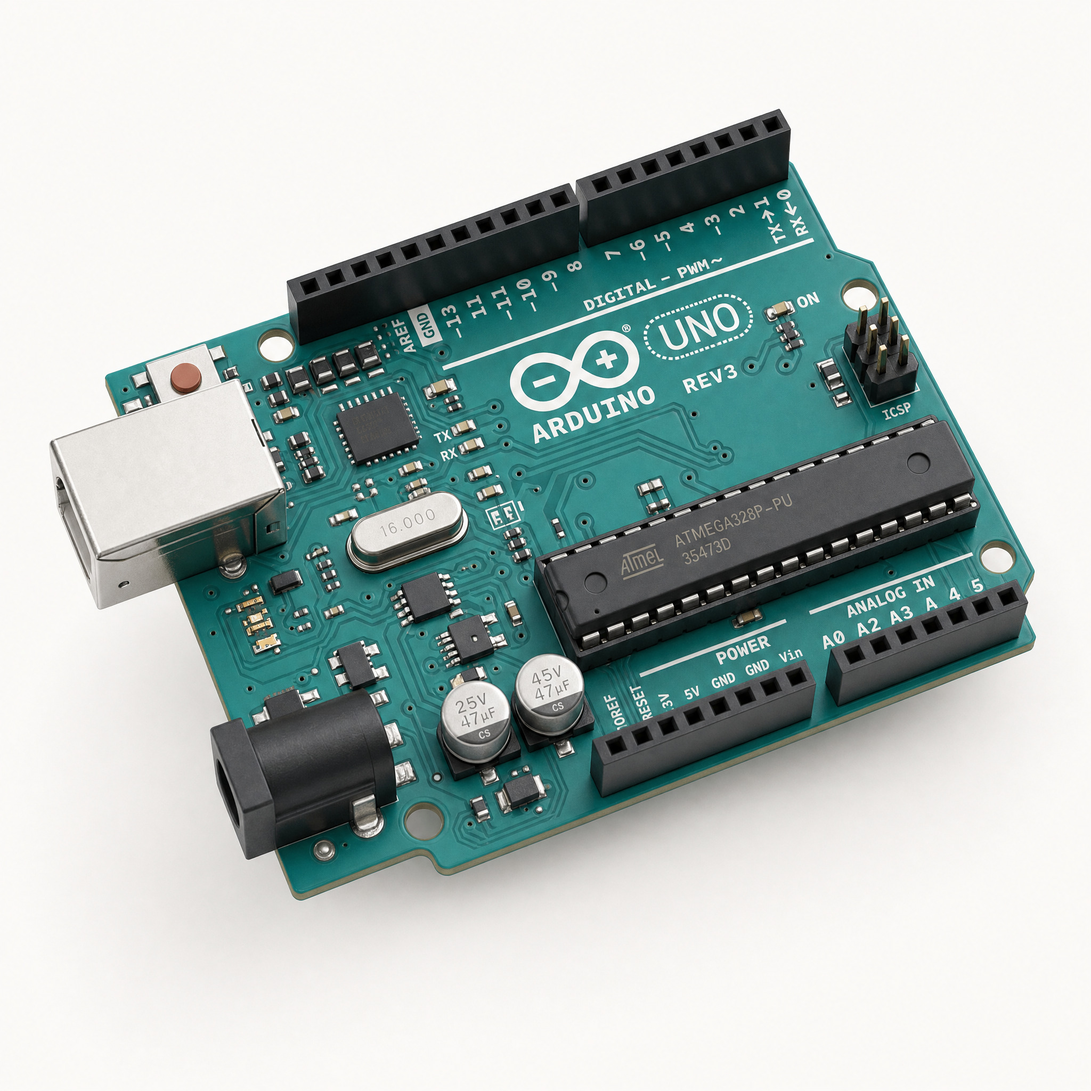
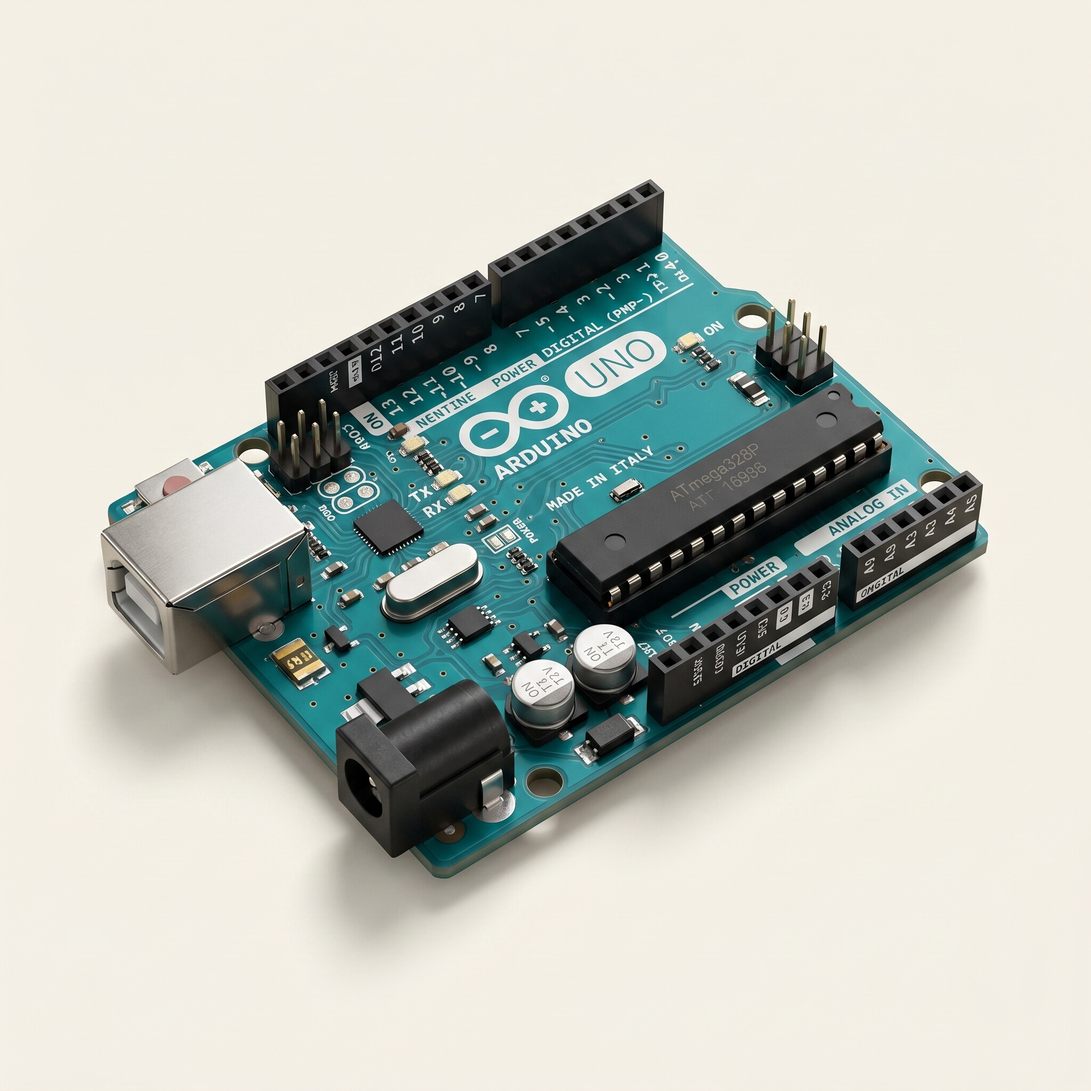
feat(images): regenerate 12 visuals via Higgsfield Nano Banana 2
User A/B-test 2026-05-05 över alla 18 deck-bilder visade att NB2 vinner
17/18 jämfört med OpenAI gpt-image-2 (vunna kategorier: cartoon, triangel,
fotocell-states, schema, photoreal hero-shots, Fritzings).

Bilder bytta till NB2-genererade versioner:
- ohms-law (cartoon — bevarad metafor men crisper render)
- ohms-triangle (renare line-art med R · I dot)
- photoresistors-three (3 fotoceller i olika ljus + resistansvärden)
- breadboard-internals (5-håls-strips, identiska top/bottom)
- pwm-waveform (oscilloscope-grid + 3 duty cycles)
- voltage-divider (riktig fotocell-symbol + photo 1 kΩ + +5V↑ + skala)
- rgb-color-mixing (Venn-diagram med soft glow)
- cover-arduino-hero (cinematic 16:9)
- arduino-uno-hero (clean product render)
- active-buzzer-sticker (med "REMOVE SEAL"-sticker)
- resistor-220ohm (4-band röd-röd-brun-guld)

Fritzings (LED, RGB, button, buzzer, photocell, tilt) bevarade som
originals — användarens egna TinkerCAD-renders med exakt wiring.

Slide 11 inline max-height för nya breadboard-bilden.
CLAUDE.md AI-bildgenerering-sektionen uppdaterad: NB2 är nu default.

diff --git a/CLAUDE.md b/CLAUDE.md
@@ -54,7 +54,7 @@ npm run export-notes                                           # presenter-notes
 
 | Konstanter | Var | Varför |
 |-----------|-----|--------|
-| `#d4a574` `#ff2222` `#8b4513` `#d4af37` | slide 10 (resistor-band) | Fysiska komponentfärger studenten ska identifiera |
+| `#d4a574` `#ff2222` `#8b4513` `#d4af37` | slide 10 (resistor-band) + AI-prompt för `resistor-220ohm.png` | Fysiska komponentfärger studenten ska identifiera. AI-rendrade resistorer MÅSTE följa 4-band 220 Ω: röd-röd-brun + (gap) + guld |
 | `#ff1744` `#00e676` `#2979ff` | slides 19, 26 (RGB-LED-cirklar) | Faktiska LED-färger |
 | `#b400dc` `#ff8cb4` `#ffd400` `#00e0ff` | slide 25 (RGB-färgexempel) | Övningens målfärger |
 | `#ffd400` (sun) | AI-prompt för `voltage-divider.png` | Sol-symbol — pedagogisk metafor (vid regeneration: behåll i prompt) |
@@ -109,6 +109,59 @@ npm run export-notes                                           # presenter-notes
 
 ---
 
+## AI-bildgenerering — modellval och workflow
+
+Empiriskt verifierat 2026-05-05 över ~30 bildgenerationer + användar-jämförelse på alla 18 deck-bilder:
+
+### Default: **Higgsfield `nano_banana_2`** för i princip allt
+
+Användar-A/B-test 2026-05-05: NB2 vann över gpt-image-2 på **17/18 bilder** (cartoonen, triangeln, fotocell-states, breadboard, PWM, voltage-divider, RGB-mixing, cover, Arduino-hero, buzzer-sticker, fotocell-macro, resistor-220Ω, alla Fritzings). Hero-shots och pedagogiska illustrationer är NB2 jämbördigt eller bättre. På Fritzing-style med tät text-labels är NB2 markant bättre.
+
+### Modellval per bildtyp
+
+| Bildtyp | Modell | Endpoint / verktyg | Anteckning |
+|---------|--------|---------------------|--------|
+| **DEFAULT — allt** | **Higgsfield `nano_banana_2`** | `higgsfield generate create nano_banana_2 --image <ref> --prompt "..." --wait` | Bra på cartoon, illustrationer, schema, fotorealism, AND Fritzing-labels |
+| Photo-fidelity-kritiska (exakt wiring i TinkerCAD-foton, Fritzings med specifika pin-anslutningar) | **Restore original** | n/a | Båda modeller hallucinerar pin-positioner. Originalets fidelity är pedagogiskt nödvändig |
+| Fallback om NB2 fail eller specifik sak inte funkar | OpenAI `gpt-image-2` | `/v1/images/edits` | Hade tidigare default-rollen, fungerar men är sämre på text-labels och småskaligt detalj |
+
+### Workflow för regen
+
+1. **Pre-flight:** Kontrollera `higgsfield account status` (CLI authed). Concurrent-jobs-limit på starter-plan = **4**, max 4 parallella i taget.
+2. **Originals först:** Backup till `tasks/image-gen/originals/` FÖRE delete-commit (omvänd ordning är data-loss-risk)
+3. **Prompt-fil per bild:** Spara i `tasks/image-gen/v[N]/<name>-prompt.txt` för reproducerbarhet
+4. **Strukturerad prompt:** Lista vad som BEVARAS exakt och vad som ÄNDRAS (en korrigering åt gången). Avslutas med "ABSOLUTE CONSTRAINTS — must NOT include..."
+5. **Higgsfield-anrop**: `URL=$(higgsfield generate create nano_banana_2 --image <path> --prompt "$(cat prompt.txt)" --wait | tail -1) && curl -sS "$URL" -o tasks/image-gen/v[N]/<name>.png`. Run i background med run_in_background:true för parallellisering.
+6. **Visuell review per bild**: Read tool på PNG, jämför mot original. Specifik check: pin-labels, kolumnsiffror på breadboard, +/− på rails, resistor-färgband.
+7. **Användarjämförelse** (för stora regen-runder): bygg HTML i `tasks/image-gen/v[N]/comparison.html` med radio-buttons + comment-fält så användaren kan välja bästa variant per bild. localStorage-persistens, JSON-export.
+8. **Integrera**: kopiera till `presentation/public/images/<same-name>` (samma path = ingen slides.md-edit). Vid ny bild (t.ex. ohms-triangle.png): edita slide-markdown.
+9. **Filnamn-extension**: NB2 returnerar PNG. Om slide-ref använder .jpg → konvertera via `magick <src>.png -quality 90 <dst>.jpg`. Annars cp direkt.
+10. **Build smoke**: `npm run build` (~6s)
+11. **Slide-render-test**: `npx slidev export --format png --range "<n>" --output /tmp/preview/` per ändrad slide
+12. **Atomic commit per logisk enhet** (en regen-runda = en commit, men distinkta refinements kan delas)
+
+### Crop / CSS scaling
+
+`/v1/images/edits` ger ofta omtolkade kompositioner (extra rader, omarrangerade element). Två räddningsverktyg:
+- `magick <src> -crop WxH+X+Y +repage <dst>` — pixel-exakt crop när AI lagt till oönskade element
+- Inline CSS `style="max-height:580px;width:auto;margin:0 auto;display:block"` på `<img>` — när AI-bilden är rätt men för stor i slide-layouten
+
+### Modeller att UNDVIKA för det här projektet
+
+- DALL-E 3 — saknar `/edits`-endpoint, ingen referensbevarande
+- gpt-image-1.5 / 1 / mini — föregångare, sämre på allt
+- Soul V2 / Soul Cinema — för stilfulla, NSFW-orienterade
+- Marketing Studio — för branded ad video (inte vår use case)
+
+### Kostnadsuppskattning
+
+- nano_banana_2 (Higgsfield) ≈ **4 credits / bild** i praktiken (verifierat över 30 anrop). Starter-plan ger 1000+ credits.
+- gpt-image-2 high 1024² ≈ $0.21 / bild
+- gpt-image-2 high 1536×1024 ≈ $0.165 / bild
+- gpt-image-2 medium 1024² ≈ $0.05 / bild
+
+---
+
 ## Workflow-regler
 
 - **Plan-mode för 3+ steg eller arkitektur-beslut.** Skriv plan i `tasks/<datum>-<topic>-plan.md` innan kodändringar.
@@ -128,7 +181,8 @@ npm run export-notes                                           # presenter-notes
 3. `npm run export -- --format png --output ../tasks/light-mode-rendered/` — 52 PNG:er
 4. `npm run export -- --output ../tasks/light-mode-rendered/slides-light.pdf` — PDF (kör EFTER PNG eftersom PNG-export overskriver)
 5. Spot-check Read tool på 5-10 PNG:er (ändrade slides + 1, 8, 21, 24, 25, 33, 41, 52)
-6. Vid substantive change: `multi-auditor-review` skill → fixes → re-render → ny review
+6. **Vid AI-bild-regen specifikt**: pedagogisk visuell review per ändrad slide — inte bara render-spot-check. `multi-auditor-review` (kod-strukturell) **fångar inte** pedagogiska/visuella regressioner. Kör `multi-ai-consultant:consult-gemini` för multimodal review om en bild är kritisk.
+7. Vid substantive change: `multi-auditor-review` skill → fixes → re-render → ny review
 
 ---
 

diff --git a/presentation/slides.md b/presentation/slides.md
@@ -401,11 +401,20 @@ class: px-14 pt-12
   U = R · I
 </div>
 
-<div class="flex flex-col items-center">
-  <img src="/images/ohms-law.png" class="rounded-xl" style="width:34rem" />
-  <div class="text-base opacity-60 mt-4">
-    <span class="cyan">Volt</span> trycker · <span class="cyan">Ohm</span> stryper · <span class="cyan">Amp</span> flödar
+<div class="flex items-center justify-center gap-12">
+
+  <div class="flex flex-col items-center">
+    <img src="/images/ohms-law.png" class="rounded-xl" style="width:26rem" />
+    <div class="text-base opacity-60 mt-3">
+      <span class="cyan">Volt</span> trycker · <span class="cyan">Ohm</span> stryper · <span class="cyan">Amp</span> flödar
+    </div>
   </div>
+
+  <div class="flex flex-col items-center">
+    <img src="/images/ohms-triangle.png" style="width:18rem" />
+    <div class="text-base opacity-60 mt-3 mono">täck variabeln ni söker</div>
+  </div>
+
 </div>
 
 <div class="mt-8 text-center text-lg opacity-70">
@@ -530,13 +539,7 @@ class: px-14 pt-12
 </div>
 
 <div class="mt-6 flex items-center gap-4 p-4 rounded-xl border border-[var(--ak-border)] bg-[var(--ak-bg-raised)]">
-  <div class="flex-shrink-0 flex items-center gap-[3px] h-12 bg-[#d4a574] px-2 rounded">
-    <div class="w-[5px] h-10 bg-[#ff2222]"></div>
-    <div class="w-[5px] h-10 bg-[#ff2222]"></div>
-    <div class="w-[5px] h-10 bg-[#8b4513]"></div>
-    <div class="w-[10px]"></div>
-    <div class="w-[5px] h-10 bg-[#d4af37]"></div>
-  </div>
+  <img src="/images/resistor-220ohm.png" class="flex-shrink-0" style="width:200px;height:auto" />
   <div class="text-xs mono opacity-80 leading-tight">
     röd · röd · brun<br/>
     2 · 2 · ×10¹<br/>
@@ -590,7 +593,7 @@ class: px-14
 
 # Fem hål = en nod.
 
-<img src="/images/breadboard-internals.png" class="breadboard-diagram" />
+<img src="/images/breadboard-internals.png" class="breadboard-diagram" style="max-height:540px;width:auto;margin:0 auto;display:block" />
 
 <div class="mt-8 grid grid-cols-2 gap-x-12 gap-y-5" style="font-size:32px;line-height:1.5">
 <div>· <strong>Fem hål i rad</strong> = en <span class="cyan">nod</span></div>
@@ -1292,7 +1295,7 @@ class: px-14
   <div><span class="mono cyan">255</span> → alltid HIGH → full styrka</div>
 </div>
 
-<img src="/images/pwm-waveform.png" class="h-96" />
+<img src="/images/pwm-waveform.png" class="h-[34rem]" />
 
 </div>
 
